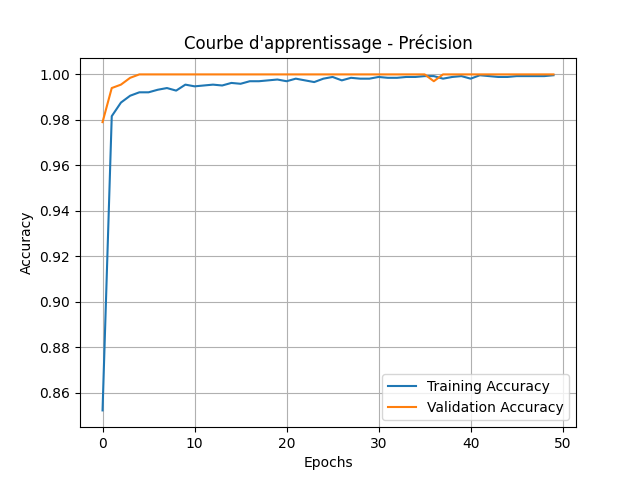
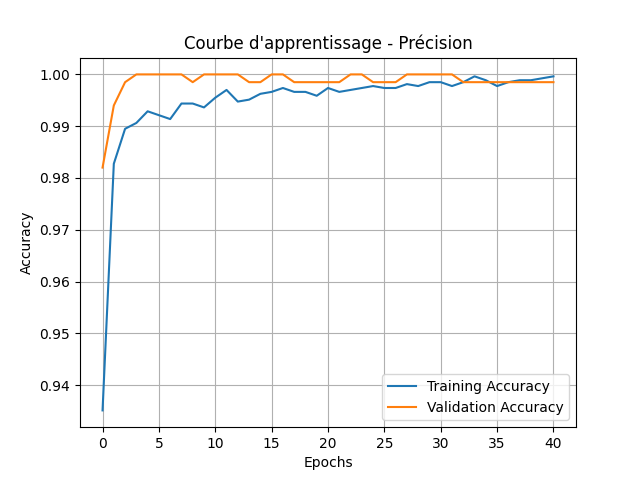
add : choix de pourcentage de reduction mod : nb epochs max pour le DL

diff --git a/scripts/cleanig_data_script.py b/scripts/cleanig_data_script.py
@@ -4,7 +4,7 @@ import seaborn as sns
 import matplotlib.pyplot as plt
 from sklearn.preprocessing import StandardScaler
 
-def reduce_transaction(input_file,output_file):
+def reduce_transaction(input_file,output_file, pourcentage_reduction=0.01):
     # Charger le fichier CSV
     data = pd.read_csv(input_file)
 
@@ -26,7 +26,7 @@ def reduce_transaction(input_file,output_file):
     non_fraud_sorted = non_fraud_data.sort_values(by='VarianceScore', ascending=False)
 
     # Conserver seulement 1% des lignes les plus variées pour les non frauduleuses
-    reduced_non_fraud = non_fraud_sorted.head(int(len(non_fraud_data) * 0.01))
+    reduced_non_fraud = non_fraud_sorted.head(int(len(non_fraud_data) * pourcentage_reduction))
 
     # Supprimer la colonne 'VarianceScore'
     reduced_non_fraud = reduced_non_fraud.drop(columns=['VarianceScore'])

diff --git a/main.py b/main.py
@@ -54,7 +54,7 @@ def main():
             display_message(f"Le fichier '{reduced_data_file}' existe déjà. Chargement des données...")
         else:
             display_message("Réduction des transactions en cours...")
-            reduce_transaction(credit_card_data_file, reduced_data_file)
+            reduce_transaction(credit_card_data_file, reduced_data_file, pourcentage_reduction=0.1)
             display_message("Réduction des transactions terminée.")
 
     if choice == "2" or choice == "10":

diff --git a/scripts/DL_model_training_script.py b/scripts/DL_model_training_script.py
@@ -55,7 +55,7 @@ def train_deep_learning_model(prepared_data_file, output_loss_curve, target_colu
     history = model.fit(
         X_train, y_train,
         validation_data=(X_test, y_test),
-        epochs=50,
+        epochs=100,
         batch_size=32,
         callbacks=[early_stopping]
     )
